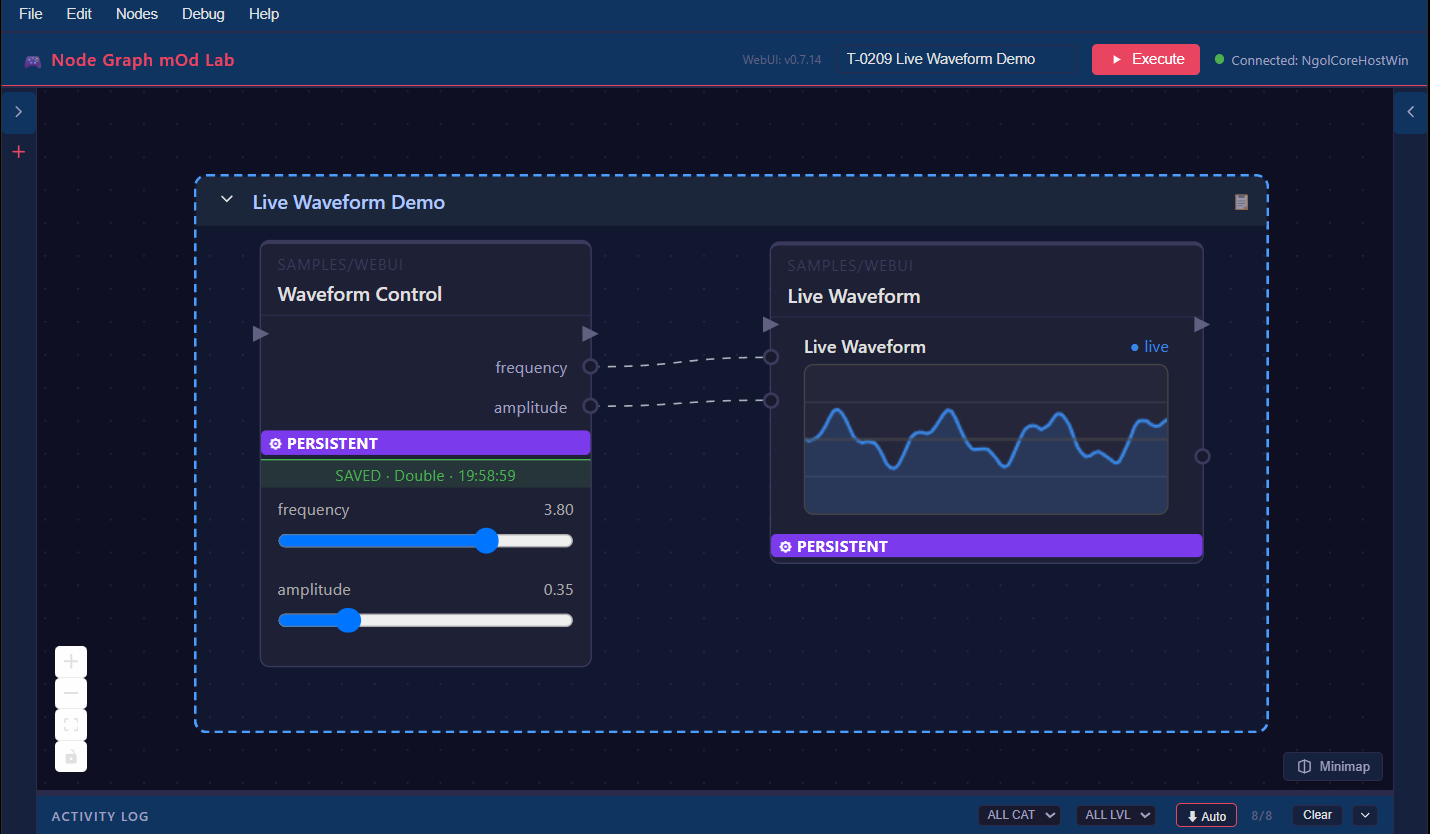
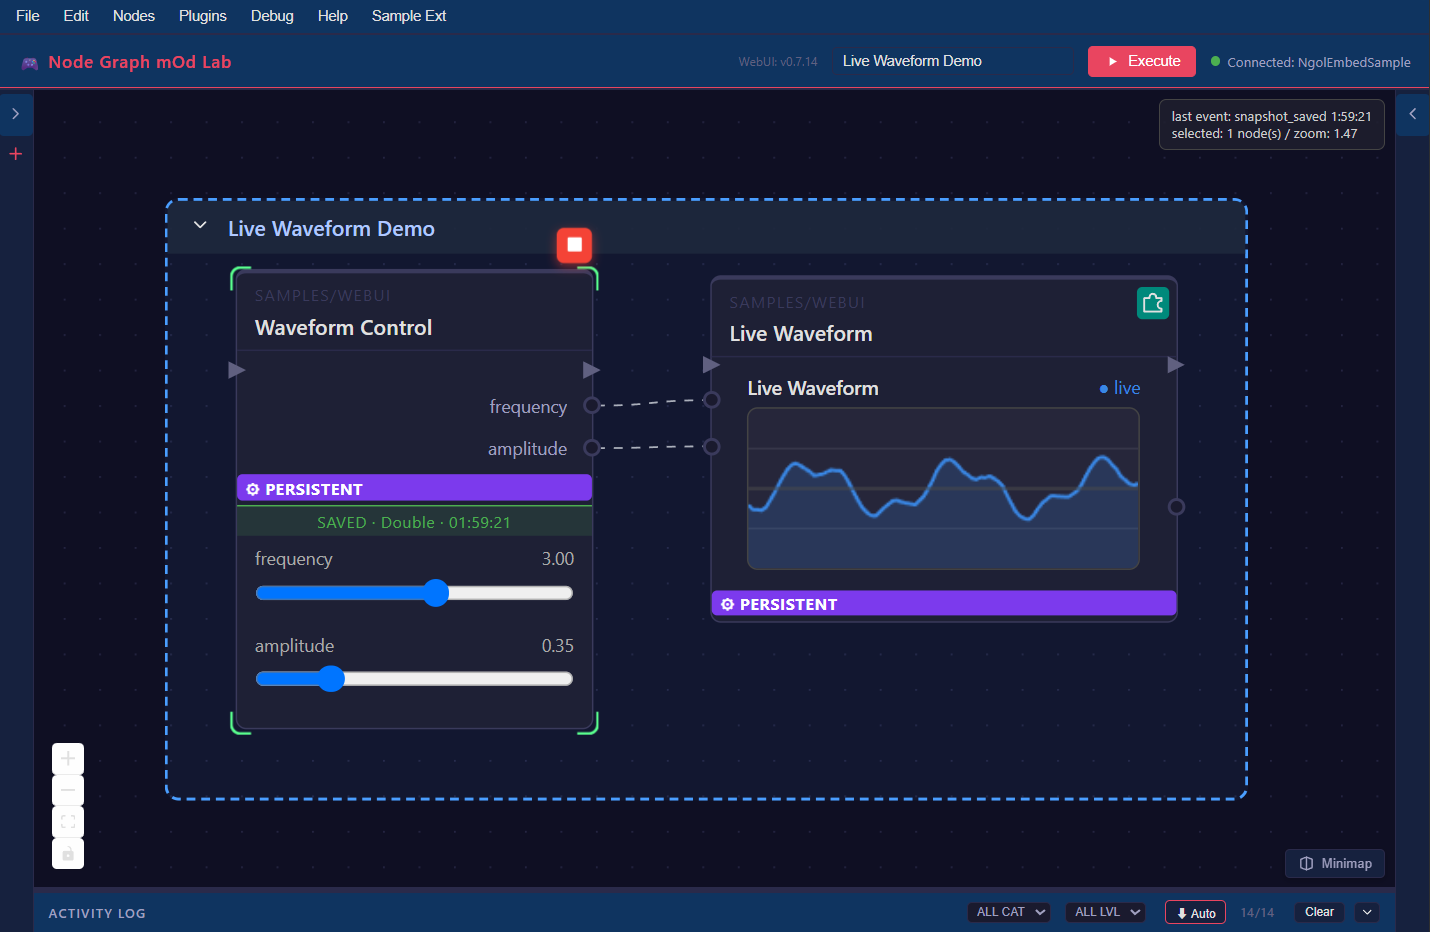
feat: WebUI拡張のデモグラフを同梱する
READMEがスクリーンショットで「2ノード連携のライブデモ」と説明していたが、
その連携を再現するグラフが入っておらず、読者はノードを自分で配置して
接続する必要があった。

グラフを追加し、リリースパッケージとサンプルの組み立てスクリプトの
両方が配置するようにする。展開してWebUIを開けばそのまま動く。

diff --git a/README.md b/README.md
@@ -57,7 +57,7 @@
 
 <img src="docs/images/webui_ext_sample.png" alt="WebUI extension sample: live waveform" align="left" /><br clear="left" />
 
-上のスクリーンショットは、周波数・振幅スライダー（widget プラグイン）の操作をリアルタイムに反映しながら Canvas に波形を描画する（nodeRenderer プラグイン）、2 ノード連携のライブデモです。サンプル: [`samples/WebUIPlugins/`](samples/WebUIPlugins/)。詳細ガイド: [docs/webui-plugin-guide.md](docs/webui-plugin-guide.md)
+上のスクリーンショットは、周波数・振幅スライダー（widget プラグイン）の操作をリアルタイムに反映しながら Canvas に波形を描画する（nodeRenderer プラグイン）、2 ノード連携のライブデモです。**このグラフは `NGOL/Graphs/` に同梱されており、WebUI から `Live Waveform Demo` を開けばそのまま動かせます。** サンプル: [`samples/WebUIPlugins/`](samples/WebUIPlugins/)（プラグイン）、[`samples/CustomNodes/custom_webui_samples/`](samples/CustomNodes/custom_webui_samples/)（ノード）、[`samples/Graphs/`](samples/Graphs/)（グラフ）。詳細ガイド: [docs/webui-plugin-guide.md](docs/webui-plugin-guide.md)
 
 ### AI エージェント連携（MCP サーバー）
 - **MCP サーバー（`mcp/`）** — AI エージェントが NGOL を自律操作できる Model Context Protocol サーバー
